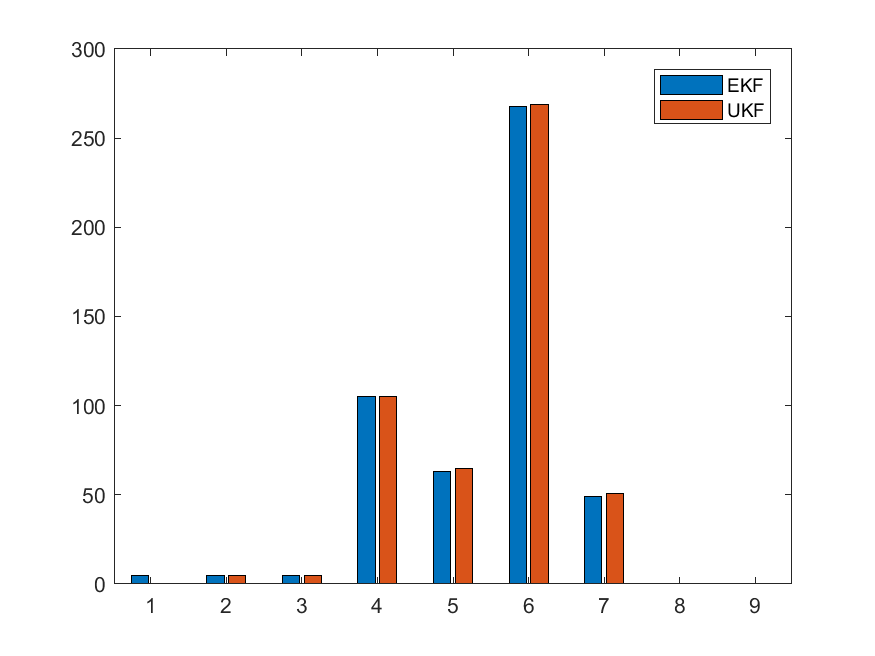
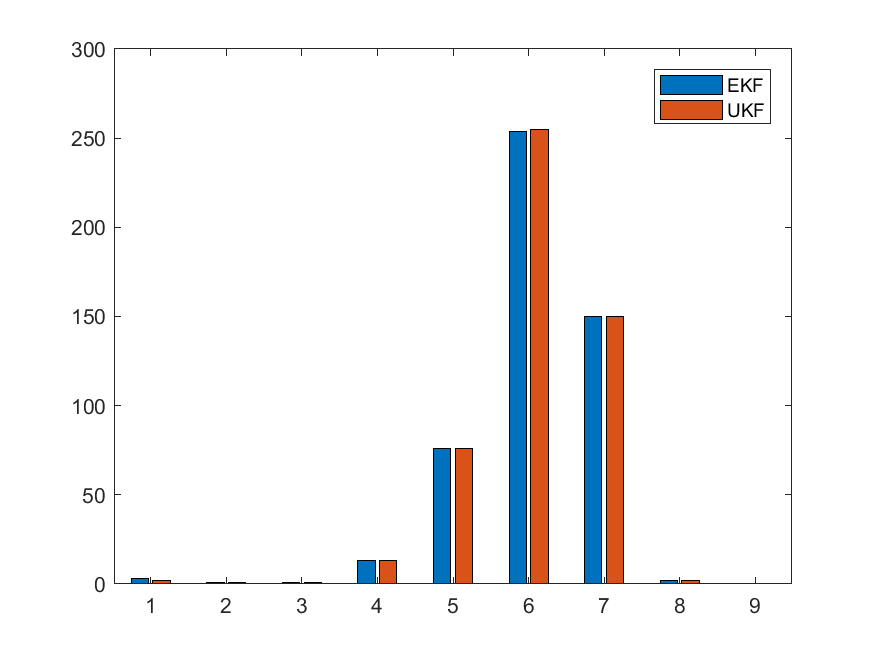
Fixed signal generation, changed phase noise

diff --git a/main_ri.m b/main_ri.m
@@ -25,10 +25,10 @@ r = sigma*q;
 n_simulations = 500;
 initialization_noise_sigma = 0.001;
 threshold = 120;
-sigma_noise = 2e-2;
-sigma_omega_noise = 1e-3;
-% sigma_noise = 4e-1;
-% sigma_omega_noise = 3e-1;
+% sigma_noise = 2e-2;
+% sigma_omega_noise = 1e-3;
+sigma_noise = 4e-1;
+sigma_omega_noise = 3e-1;
 
 if (PLOT_PREDICTION)
     ri_figure = figure('visible','off');

diff --git a/generate/generate_signal_step.m b/generate/generate_signal_step.m
@@ -25,7 +25,7 @@ end
 Phi = cumsum(instantaneous_omega);
 
 for ii=1:length(t)
-    signal(ii) = sin(Phi(ii) + normrnd(0,sigma_omega_noise*instantaneous_omega(ii)));
+    signal(ii) = sin(Phi(ii) + normrnd(0,sigma_omega_noise*initial_omega));
 end
 
 if(sigma_noise~=0)
